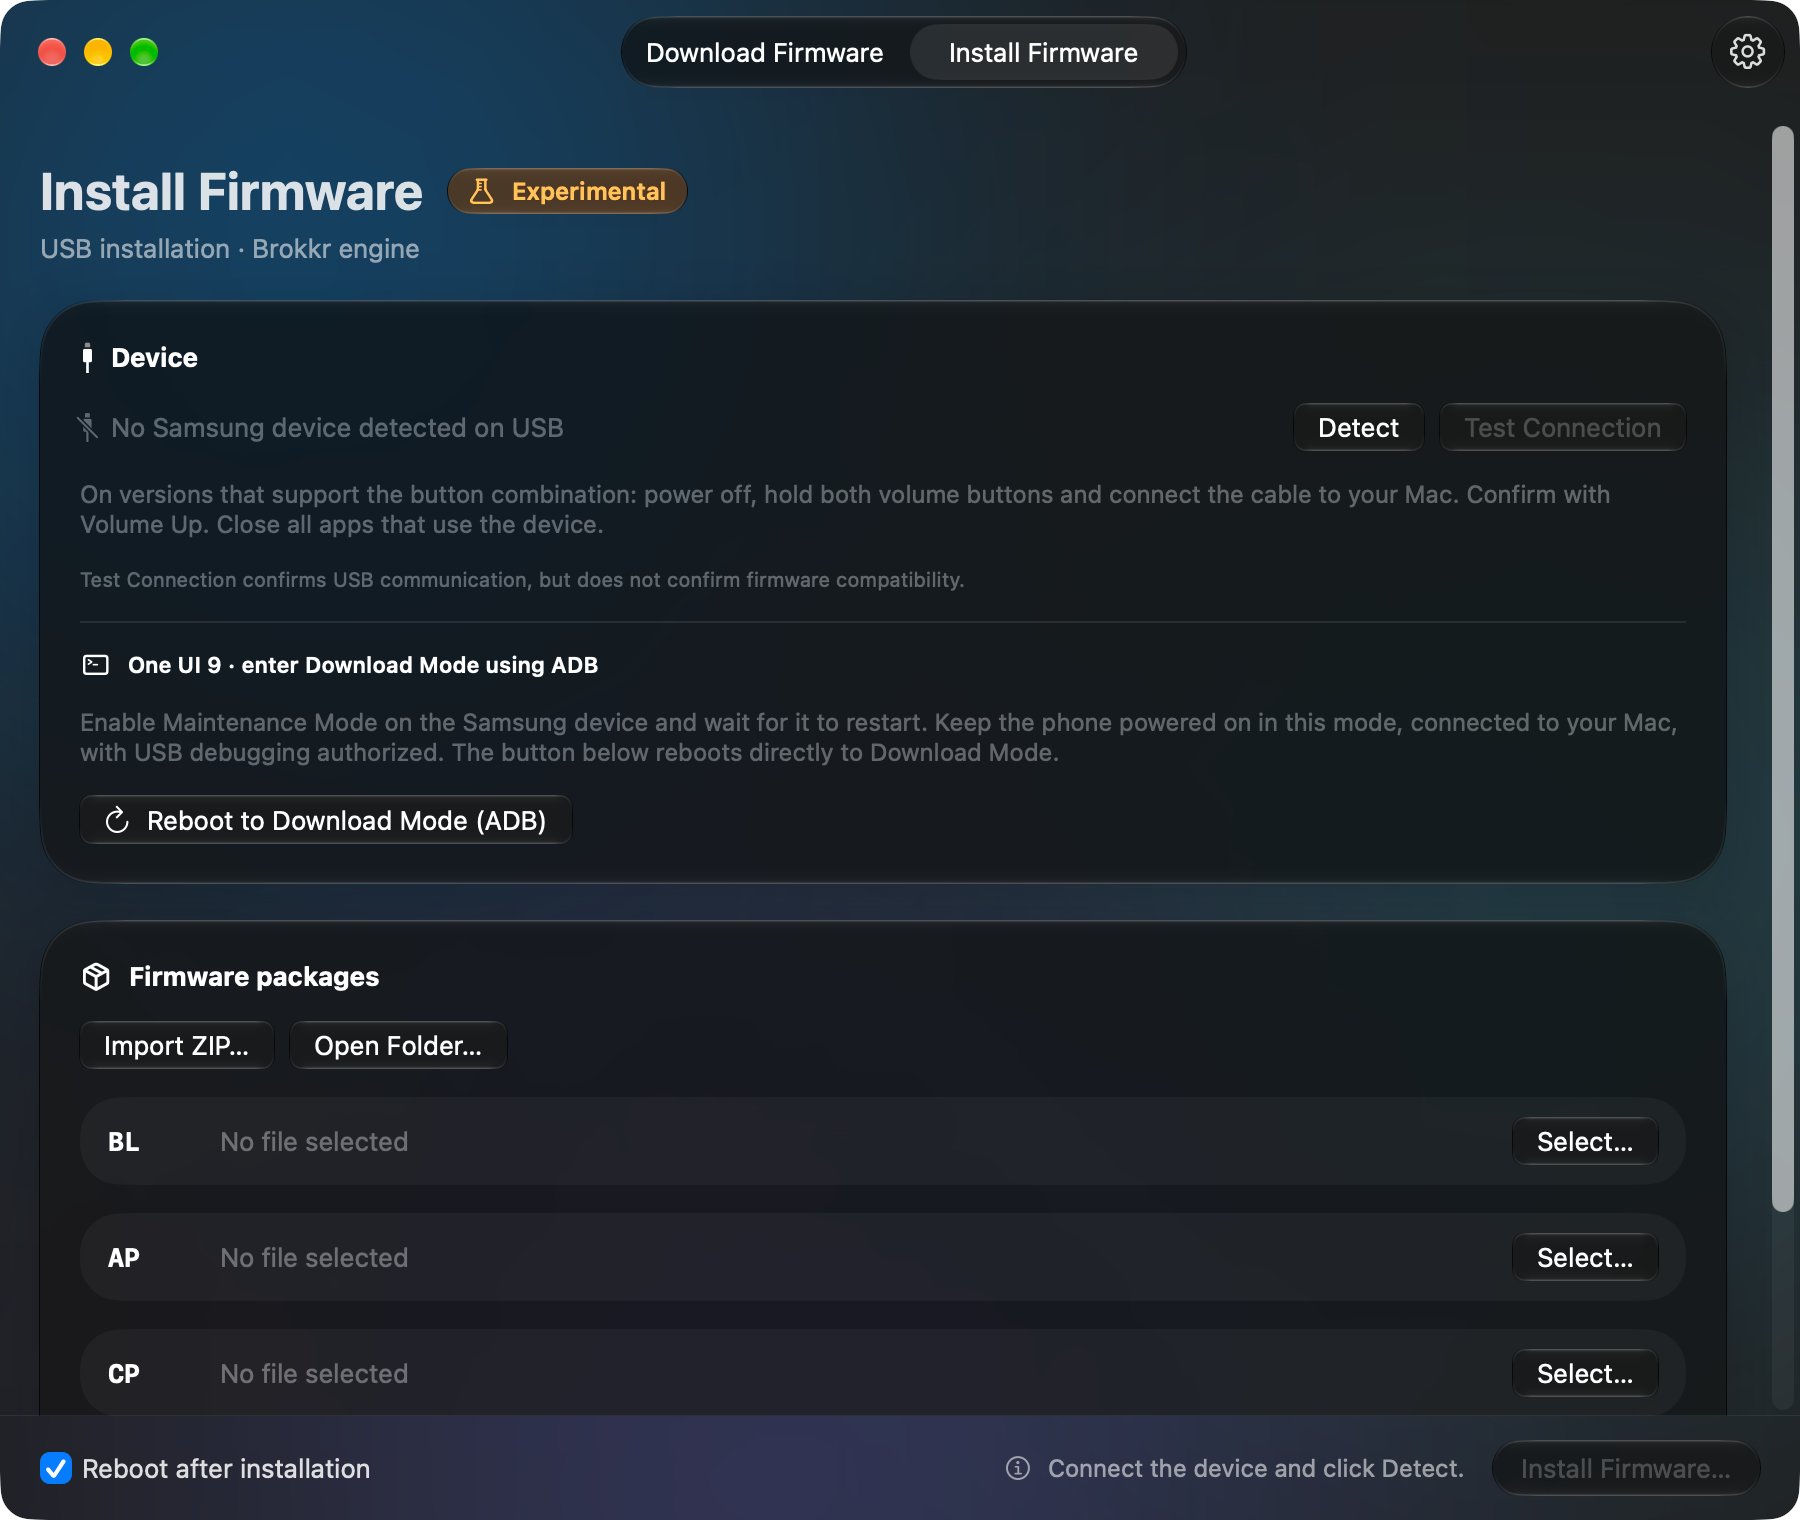
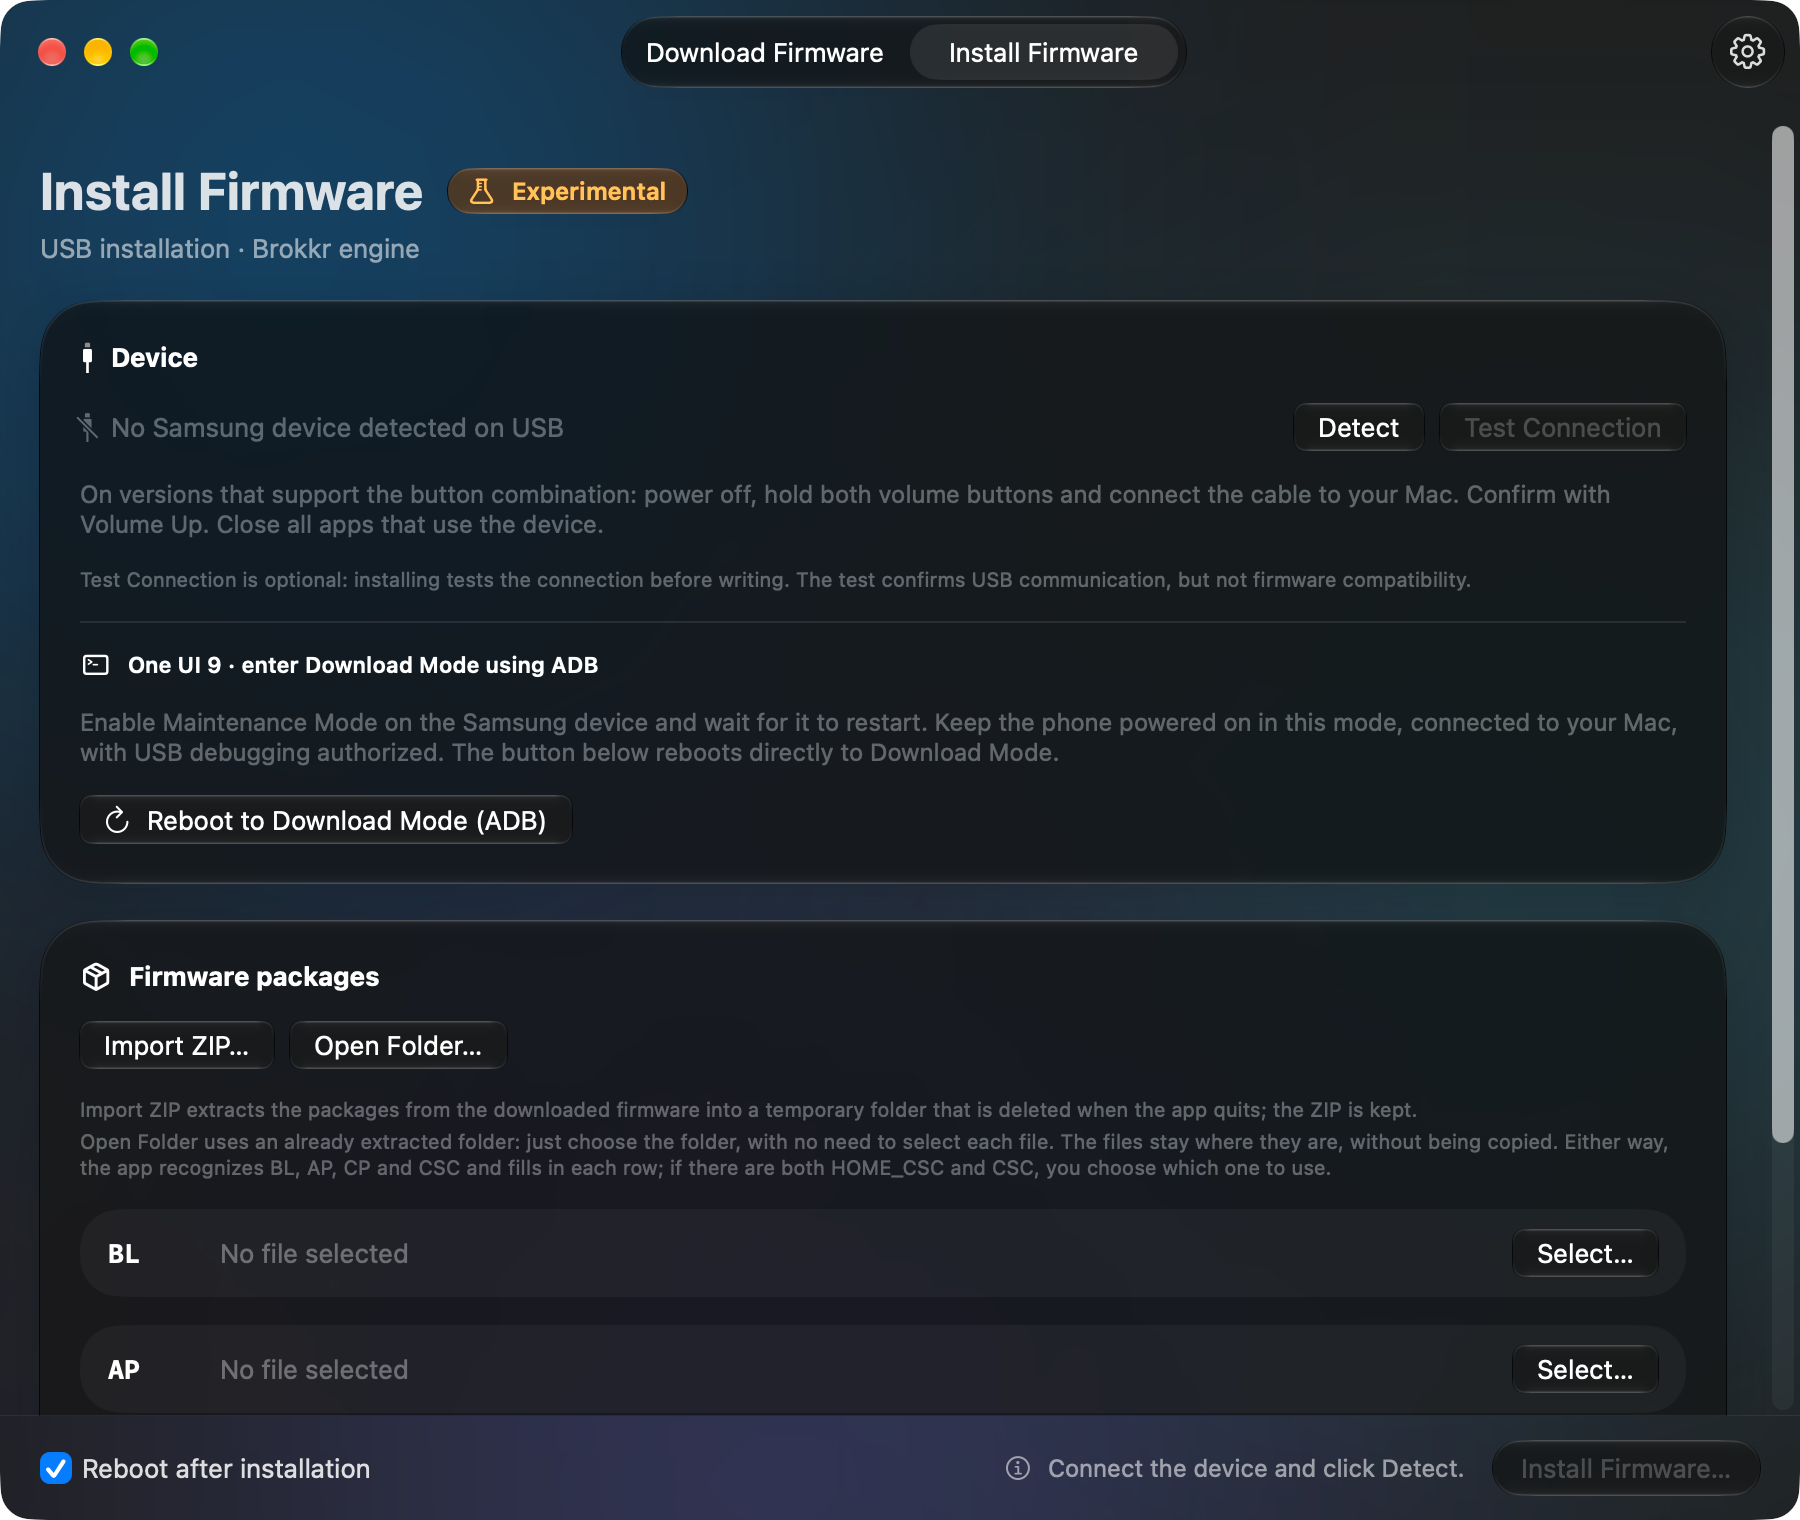
docs: refresh the install tab screenshot

diff --git a/README.md b/README.md
@@ -18,7 +18,7 @@ used with another flashing tool.
 
 <p align="center">
   <img src="docs/images/download-firmware.png" width="49%" alt="Download Firmware tab, with the model field, the ZTO · Brazil (unlocked) region menu, the Search button and the Search for a model message">
-  <img src="docs/images/install-firmware.png" width="49%" alt="Install Firmware tab, with the Device card (Detect, Test Connection and Reboot to Download Mode over ADB), the BL, AP and CP packages and the Install Firmware button">
+  <img src="docs/images/install-firmware.png" width="49%" alt="Install Firmware tab, with the Device card (Detect, Test Connection and Reboot to Download Mode over ADB), the Firmware packages card (Import ZIP, Open Folder and the BL and AP rows) and the Install Firmware button">
 </p>
 
 > [!CAUTION]
